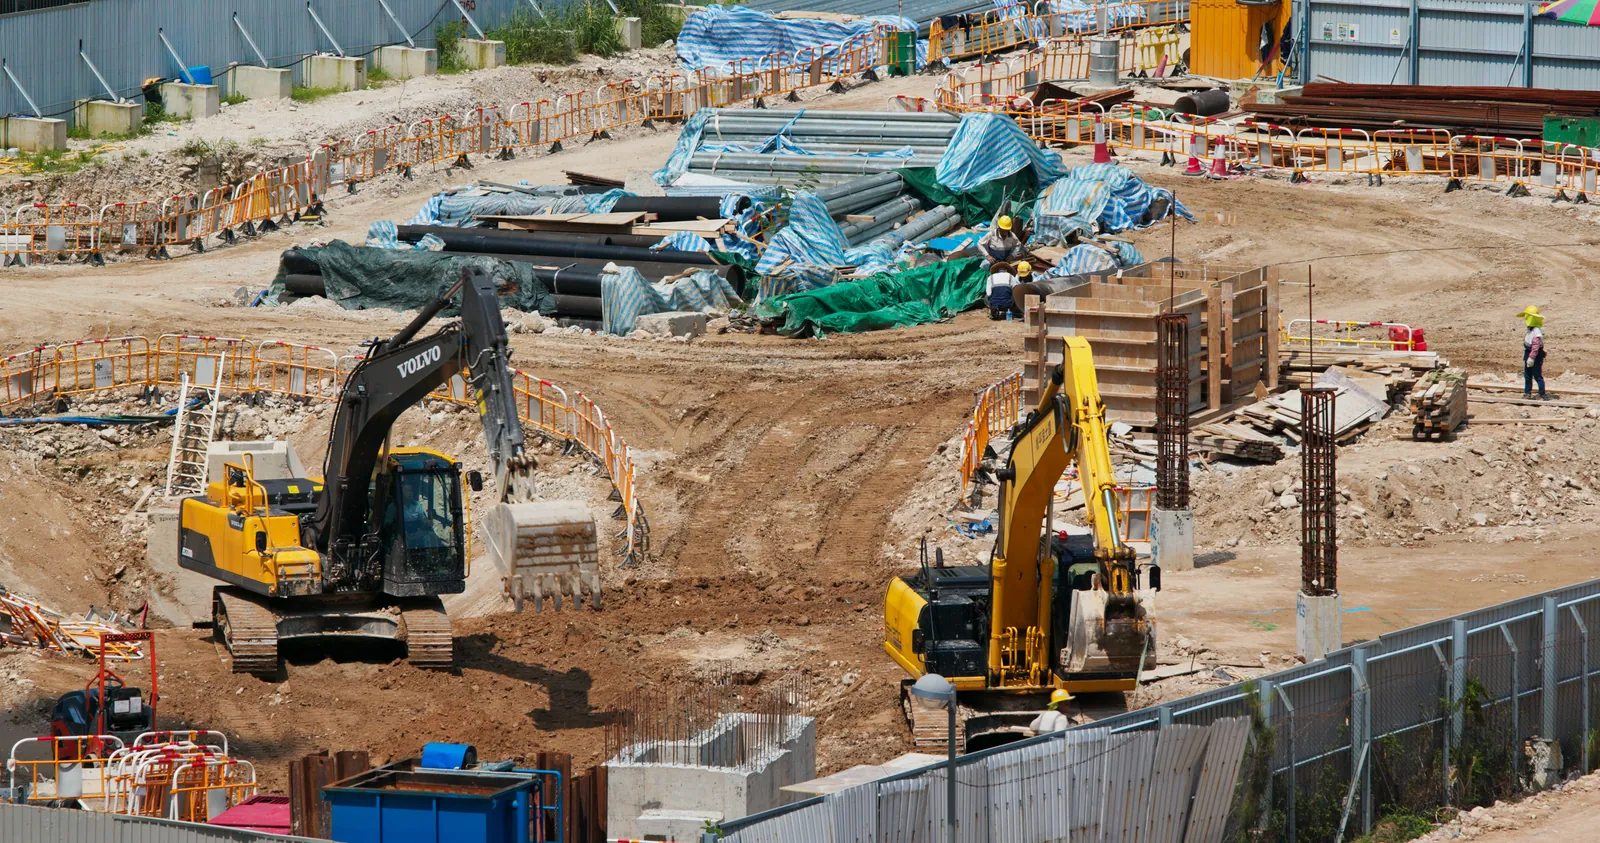
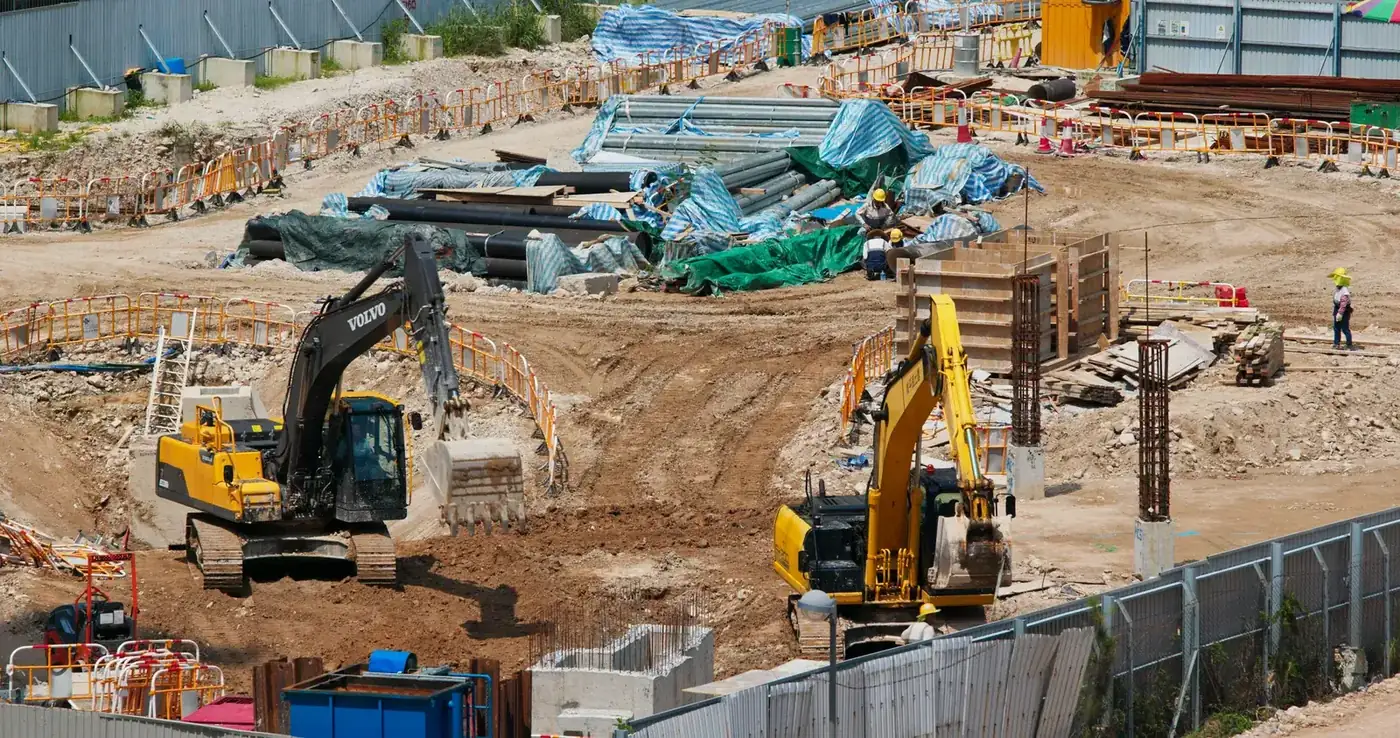
Punt R1: werfbewaking.webp gecomprimeerd naar 200KB

diff --git a/index.html b/index.html
@@ -211,7 +211,7 @@
 
         <a href="/diensten/werfbewaking" class="dienst-card">
           <div class="dienst-img">
-            <img src="assets/img/werfbewaking.webp" alt="Werfbewaking" loading="lazy" width="1600" height="844">
+            <img src="assets/img/werfbewaking.webp" alt="Werfbewaking" loading="lazy" width="1400" height="738">
           </div>
           <div class="dienst-text">
             <h3>Werfbewaking</h3>
